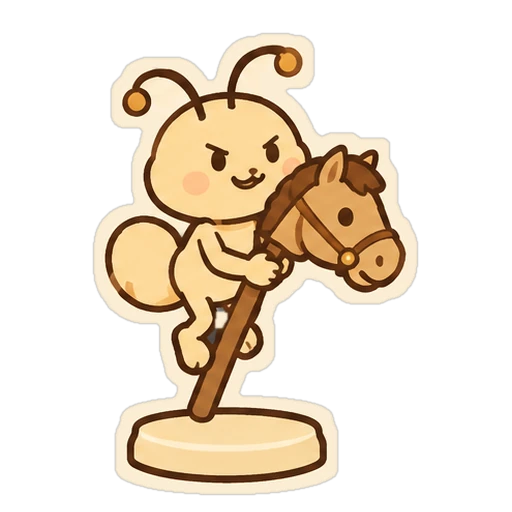
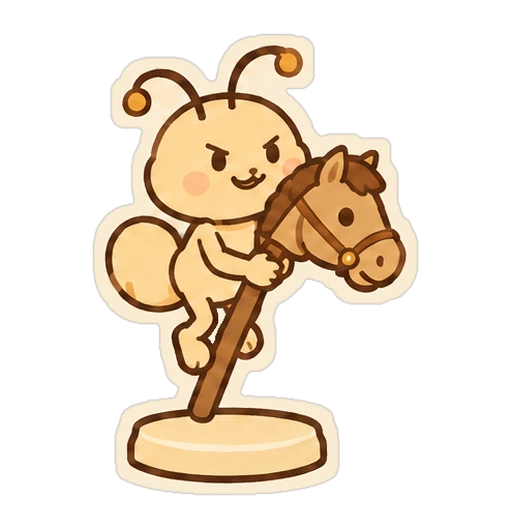
Fix the ant queen (two antennae, one abdomen) and clear grey edge stains on the ant set
Claude-Session: https://claude.ai/code/session_01GY2SyFFjfsGQQt5N8cdPWr

diff --git a/web/scripts/pieces/coolhalo.py b/web/scripts/pieces/coolhalo.py
@@ -1,0 +1,22 @@
+# เก็บคราบเทาอมฟ้าตามขอบ (เศษพื้นหลังสีเข้มที่กลืนกับขอบครีม) สำหรับตัวละครที่มีแต่สีโทนอุ่น
+# พิกเซลโทนเย็นหรือเทาใกล้ขอบนอก -> โปร่งใส, ที่อยู่ลึกกว่านั้น -> สีขอบครีม
+# ใช้: python coolhalo.py <prefix> [kinds=KQRBNP] [depth=9]
+import sys, os
+import numpy as np
+from PIL import Image, ImageFilter
+prefix = sys.argv[1]; kinds = sys.argv[2] if len(sys.argv) > 2 else 'KQRBNP'; depth = int(sys.argv[3]) if len(sys.argv) > 3 else 9
+def dil(m, r): return np.asarray(Image.fromarray((m * 255).astype(np.uint8)).filter(ImageFilter.MaxFilter(2 * r + 1))) > 127
+for k in kinds:
+    path = os.path.join('work', f'{prefix}-{k}.png')
+    a = np.asarray(Image.open(path).convert('RGBA')).copy()
+    r, g, b = [a[..., i].astype(int) for i in range(3)]
+    al = a[..., 3] > 0
+    s = r + g + b
+    cool = al & (r - b < 22) & (s < 680) & (s > 60)
+    near = cool & dil(~al, depth)
+    # ขยายไปยังพิกเซลกึ่งเทาที่ติดกัน
+    soft = al & (r - b < 34) & (s < 700) & dil(near, 2)
+    kill = near | soft
+    a[kill, 3] = 0
+    Image.fromarray(a, 'RGBA').save(path)
+    print(k, 'cool', int(cool.sum()), 'cleared', int(kill.sum()))

diff --git a/web/scripts/pieces/coolfill.py b/web/scripts/pieces/coolfill.py
@@ -1,0 +1,20 @@
+# คราบเทาอมฟ้าที่อยู่ลึกในตัวหมาก (ช่องระหว่างขากับไม้) -> ทาสีขอบครีม: python coolfill.py <prefix> <kinds> [x0,y0,x1,y1]
+import sys, os
+import numpy as np
+from PIL import Image, ImageFilter
+prefix, kinds = sys.argv[1], sys.argv[2]
+box = [int(v) for v in sys.argv[3].split(',')] if len(sys.argv) > 3 else None
+def dil(m, r): return np.asarray(Image.fromarray((m * 255).astype(np.uint8)).filter(ImageFilter.MaxFilter(2 * r + 1))) > 127
+for k in kinds:
+    path = os.path.join('work', f'{prefix}-{k}.png')
+    a = np.asarray(Image.open(path).convert('RGBA')).copy()
+    r, g, b = [a[..., i].astype(int) for i in range(3)]
+    al = a[..., 3] > 0; s = r + g + b
+    cool = al & (r - b < 22) & (s < 680) & (s > 60)
+    m = cool | (al & (r - b < 34) & (s < 700) & dil(cool, 2))
+    if box:
+        z = np.zeros(m.shape, bool); z[box[1]:box[3], box[0]:box[2]] = True; m &= z
+    a[m, :3] = (253, 241, 216)
+    Image.fromarray(a, 'RGBA').save(path)
+    ys, xs = np.where(m)
+    print(k, 'painted', int(m.sum()), 'bbox', (xs.min(), ys.min(), xs.max(), ys.max()) if len(xs) else None)

diff --git a/web/scripts/pieces/polyclear.py b/web/scripts/pieces/polyclear.py
@@ -1,0 +1,15 @@
+# ลบพื้นที่รูปหลายเหลี่ยมให้โปร่งใส: python polyclear.py <work png> "x,y x,y x,y ..." ["..."]
+import sys
+import numpy as np
+from PIL import Image, ImageDraw
+path = sys.argv[1]
+im = Image.open(path).convert('RGBA')
+m = Image.new('L', im.size, 0)
+d = ImageDraw.Draw(m)
+for poly in sys.argv[2:]:
+    d.polygon([tuple(float(v) for v in p.split(',')) for p in poly.split()], fill=255)
+a = np.asarray(im).copy()
+k = np.asarray(m) > 0
+print('cleared', int((k & (a[..., 3] > 0)).sum()))
+a[k, 3] = 0
+Image.fromarray(a, 'RGBA').save(path)
